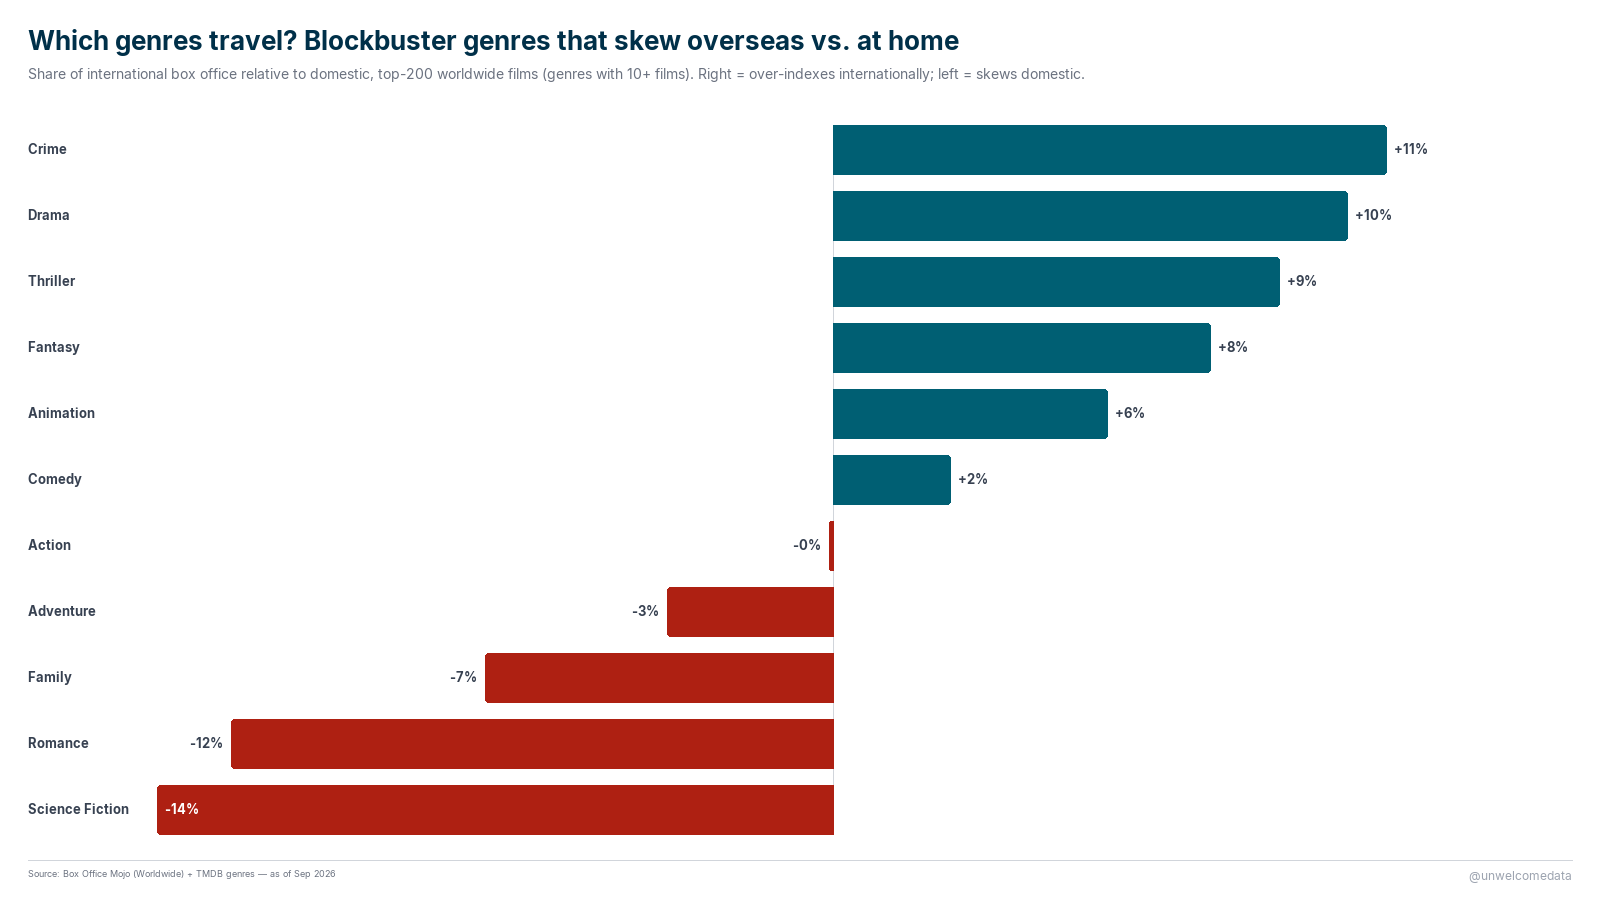
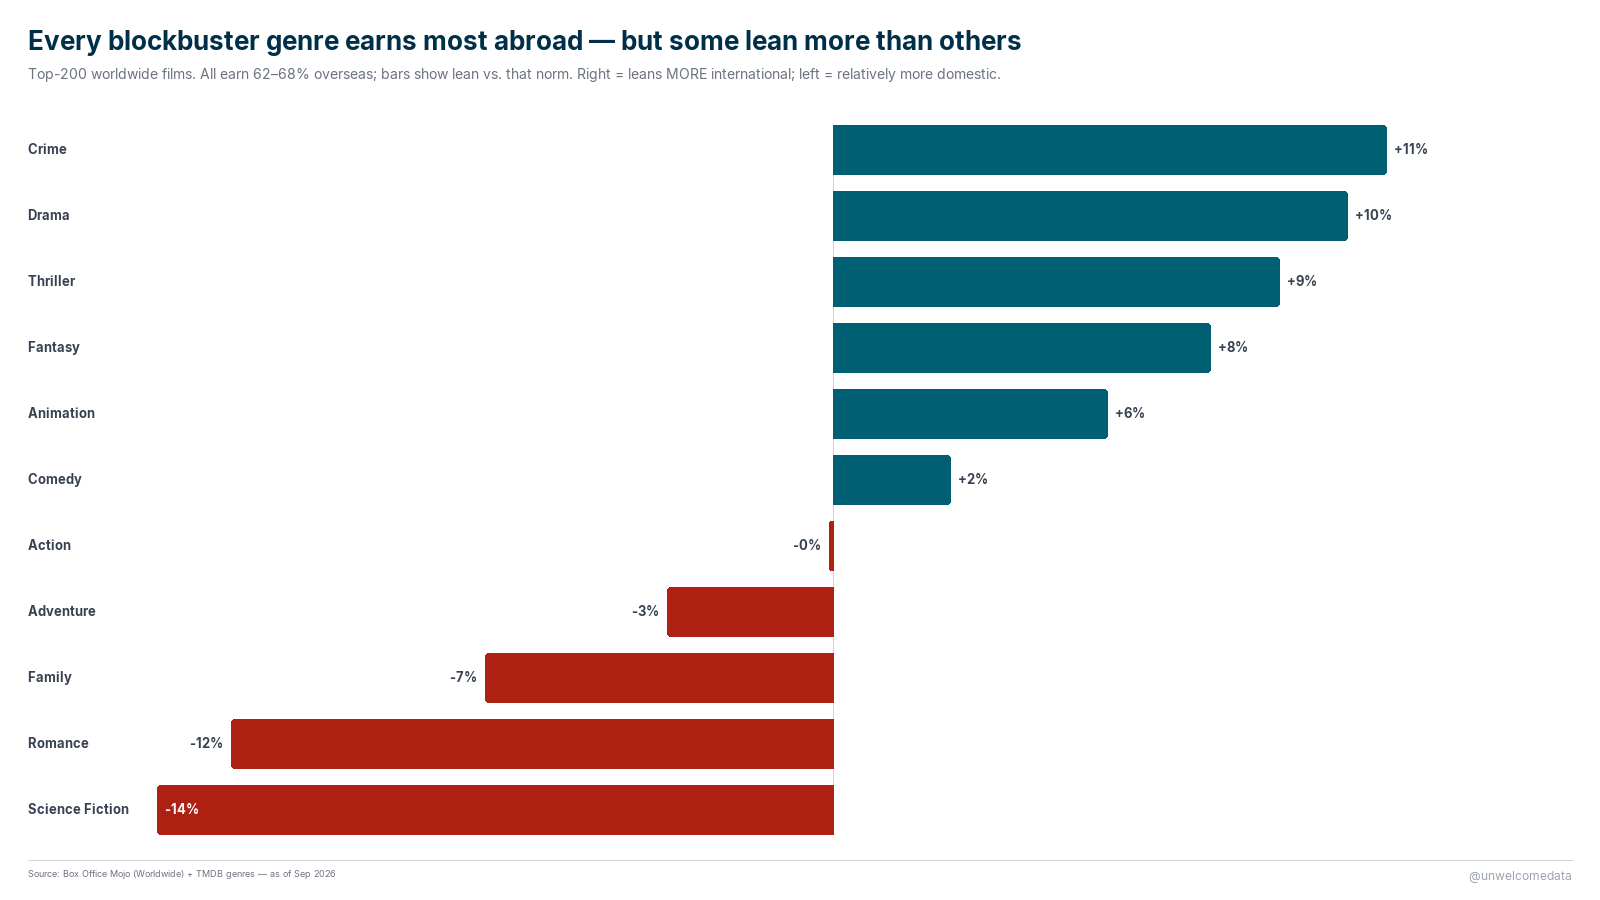
fix: chart polish + notebook con.close() cells
Charts:
- adjusted-vs-nominal subtitle names the gap (a century of ticket-price inflation)
- worldwide dumbbell labels the worldwide total (sort key) so it reads as sorted
- genre chart reframed (Option A): title/subtitle make clear ALL genres earn 62-68%
  abroad; bars show relative lean, so sci-fi's -14% doesn't read as 'doesn't travel'.
  Trimmed subtitle so it no longer clips.

Notebooks:
- 04-viz + 06-viz-social now open the DB read_only and end with a Cleanup con.close()
  cell (04-viz was missing it entirely; 06 had it buried in a chart cell).
- make_charts.py opens read_only with a locked-DB copy fallback.

Changed region(s): [[0.0, 0.0311, 0.6875, 0.0933]]

diff --git a/scripts/_build_notebooks.py b/scripts/_build_notebooks.py
@@ -402,15 +402,16 @@ viz = [
          "WORKSPACE = PROJECT.parent.parent",
          "sys.path.insert(0, str(WORKSPACE / 'shared'))",
          "",
-         "import pandas as pd",
+         "import pandas as pd, duckdb",
          "from src.ingest import load_config",
-         "from src.clean_quality import get_connection",
          "from chart_templates import lollipop, diverging_bars",
          "from viz import PRESETS",
          "from IPython.display import display",
          "",
          "cfg = load_config('config.yaml')",
-         "con = get_connection(cfg)  # left open; the cells below read worldwide + genre tables",
+         "# read-only: this notebook only reads, so it runs even if another notebook",
+         "# kernel has the DuckDB file open (DuckDB is single-writer).",
+         "con = duckdb.connect(cfg['settings']['duckdb_file'], read_only=True)",
          "films = con.execute('SELECT * FROM films_adjusted ORDER BY adjusted_gross DESC LIMIT 15').df()",
          "films['label'] = films['title'] + '  (' + films['release_year'].astype(str) + ')'",
          "img_w, img_h, _ = PRESETS['twitter_landscape']",
@@ -460,9 +461,14 @@ viz = [
          "    FROM bygenre ORDER BY value DESC''').df()",
          "genre['lbl'] = genre['value'].apply(lambda v: f\"{'+' if v>=0 else ''}{v*100:.0f}%\")",
          "display(diverging_bars(genre, category_col='category', value_col='value', label_col='lbl',",
-         "    title='Which genres travel? International vs domestic lean',",
-         "    subtitle='Top-200 worldwide films, genres with 10+ films. Right = over-indexes internationally.',",
+         "    title='All genres earn most abroad; some lean more than others',",
+         "    subtitle='All 62-68% international; bars = lean vs that norm. Left (e.g. sci-fi) = relatively more domestic, driven by US-heavy franchises.',",
          "    pos_color='#005F73', neg_color='#AE2012', img_width=img_w, img_height=img_h))"),
+    md("## Cleanup",
+       "Close the DuckDB connection so the lock is released for other tools (DBCode,",
+       "other notebooks)."),
+    code("con.close()",
+         "print('connection closed')"),
     md("---",
        "**Next:** `06-viz-social.ipynb` builds the publication versions of these three",
        "charts (full titling/source) and saves them to `outputs/social/`."),
@@ -486,14 +492,15 @@ viz_social = [
          "WORKSPACE = PROJECT.parent.parent",
          "sys.path.insert(0, str(WORKSPACE / 'shared'))",
          "",
+         "import duckdb",
          "from src.ingest import load_config",
-         "from src.clean_quality import get_connection",
          "from chart_templates import lollipop, diverging_bars",
          "from viz import PRESETS",
          "from IPython.display import display",
          "",
          "cfg = load_config('config.yaml')",
-         "con = get_connection(cfg)",
+         "# read-only: viz notebooks only read, so they run alongside an open kernel.",
+         "con = duckdb.connect(cfg['settings']['duckdb_file'], read_only=True)",
          "img_w, img_h, _ = PRESETS['twitter_landscape']",
          "out = Path(cfg['paths']['outputs_social']); out.mkdir(parents=True, exist_ok=True)",
          "def money(v):",
@@ -504,8 +511,9 @@ viz_social = [
          "    FROM films_worldwide ORDER BY worldwide_gross DESC LIMIT 15''').df()",
          "ww['label'] = ww['title'] + '  (' + ww['release_year'].astype(str) + ')'",
          "img2 = lollipop(ww, category_col='label', value_col='foreign_gross', value2_col='domestic_gross',",
+         "    label_col='worldwide_gross',  # rows are ranked by worldwide total; label that so it reads as sorted",
          "    value_fmt=money, title='Where the money really comes from: overseas',",
-         "    subtitle='Top 15 films by worldwide gross (nominal $). Teal = international (rest of world), gold = domestic (U.S. & Canada).',",
+         "    subtitle='Top 15 films by worldwide gross (nominal $), highest first. Teal = international (rest of world), gold = domestic (U.S. & Canada); label = worldwide total.',",
          "    source='Box Office Mojo, Top Lifetime Grosses (Worldwide) — as of Sep 2026',",
          "    dot_color='#005F73', dot2_color='#EE9B00',",
          "    value_label='International', value2_label='Domestic (US/Canada)',",
@@ -527,8 +535,8 @@ viz_social = [
          "    FROM bygenre ORDER BY value DESC''').df()",
          "genre['label'] = genre['value'].apply(lambda v: f\"{'+' if v>=0 else ''}{v*100:.0f}%\")",
          "img3 = diverging_bars(genre, category_col='category', value_col='value', label_col='label',",
-         "    title='Which genres travel? Blockbuster genres that skew overseas vs. at home',",
-         "    subtitle='Share of international box office relative to domestic, top-200 worldwide films (10+ films). Right = over-indexes internationally.',",
+         "    title='Every blockbuster genre earns most abroad — but some lean more than others',",
+         "    subtitle='Top-200 worldwide films. All earn 62-68% overseas; bars show lean vs. that norm. Right = leans MORE international; left = relatively more domestic.',",
          "    source='Box Office Mojo (Worldwide) + TMDB genres — as of Sep 2026',",
          "    pos_color='#005F73', neg_color='#AE2012', img_width=img_w, img_height=img_h)",
          "display(img3)",
@@ -541,17 +549,20 @@ viz_social = [
          "dom['label'] = dom['title'] + '  (' + dom['release_year'].astype(str) + ')'",
          "img1 = lollipop(dom, category_col='label', value_col='adjusted_gross', value2_col='nominal_gross',",
          "    value_fmt=money, title='The biggest DOMESTIC films of all time, adjusted for inflation',",
-         "    subtitle='U.S. & Canada only. Teal = adjusted to 2022 $, gold = nominal (release $).',",
+         "    subtitle='U.S. & Canada only. Teal = adjusted to 2022 $, gold = nominal (release $) — the gap is a century of ticket-price inflation.',",
          "    source='Box Office Mojo, Top Lifetime Adjusted Grosses (domestic, adj. to 2022) — as of Sep 2026',",
          "    dot_color='#005F73', dot2_color='#EE9B00',",
          "    value_label='Adjusted (2022 $)', value2_label='Nominal (release $)',",
          "    img_width=img_w, img_height=img_h)",
          "display(img1)",
-         "img1.save(out / '01_domestic_adjusted_vs_nominal.png')",
-         "con.close()"),
+         "img1.save(out / '01_domestic_adjusted_vs_nominal.png')"),
     md("---",
        "Three charts written to `outputs/social/`. Watermark `@unwelcomedata`, brand",
        "palette, `twitter_landscape` preset."),
+    md("## Cleanup",
+       "Close the DuckDB connection so the lock is released for other tools."),
+    code("con.close()",
+         "print('connection closed')"),
 ]
 
 

diff --git a/scripts/make_charts.py b/scripts/make_charts.py
@@ -19,8 +19,9 @@ WORKSPACE = PROJECT.parent.parent
 sys.path.insert(0, str(PROJECT))
 sys.path.insert(0, str(WORKSPACE / "shared"))
 
+import duckdb  # noqa: E402
+
 from src.ingest import load_config  # noqa: E402
-from src.clean_quality import get_connection  # noqa: E402
 from chart_templates import lollipop, diverging_bars  # noqa: E402
 from viz import PRESETS  # noqa: E402
 
@@ -39,7 +40,18 @@ def _display(img):
 
 def main() -> None:
     cfg = load_config(str(PROJECT / "config.yaml"))
-    con = get_connection(cfg)
+    db_file = cfg["settings"]["duckdb_file"]
+    # This script only reads. Try read-only; if a notebook kernel holds a
+    # read-write lock (DuckDB is single-writer), fall back to a throwaway copy so
+    # chart rendering never contends with an open notebook.
+    try:
+        con = duckdb.connect(db_file, read_only=True)
+    except duckdb.IOException:
+        import shutil, tempfile
+        tmp = Path(tempfile.gettempdir()) / "hgf_charts_readcopy.duckdb"
+        shutil.copy(db_file, tmp)
+        print(f"(primary DB locked — reading from copy {tmp})")
+        con = duckdb.connect(str(tmp), read_only=True)
     img_w, img_h, _ = PRESETS["twitter_landscape"]
     out = Path(cfg["paths"]["outputs_social"])
     out.mkdir(parents=True, exist_ok=True)
@@ -54,7 +66,7 @@ def main() -> None:
         dom, category_col="label", value_col="adjusted_gross", value2_col="nominal_gross",
         value_fmt=money_bil,
         title="The biggest DOMESTIC films of all time, adjusted for inflation",
-        subtitle="U.S. & Canada box office only. Teal = adjusted to 2022 $, gold = nominal (release $). Domestic figures — see the worldwide view for the fuller picture.",
+        subtitle="U.S. & Canada only. Teal = adjusted to 2022 $, gold = nominal (release $) — the gap is a century of ticket-price inflation.",
         source="Box Office Mojo, Top Lifetime Adjusted Grosses (domestic, adj. to 2022) — as of Sep 2026",
         dot_color="#005F73", dot2_color="#EE9B00",
         value_label="Adjusted (2022 $)", value2_label="Nominal (release $)",
@@ -71,9 +83,10 @@ def main() -> None:
     ww["label"] = ww["title"] + "  (" + ww["release_year"].astype(str) + ")"
     img2 = lollipop(
         ww, category_col="label", value_col="foreign_gross", value2_col="domestic_gross",
+        label_col="worldwide_gross",  # ranked by worldwide total; label that so it reads as sorted
         value_fmt=money_bil,
         title="Where the money really comes from: overseas",
-        subtitle="Top 15 films by worldwide gross (nominal $). Teal = international (rest of world), gold = domestic (U.S. & Canada).",
+        subtitle="Top 15 films by worldwide gross (nominal $), highest first. Teal = international (rest of world), gold = domestic (U.S. & Canada); label = worldwide total.",
         source="Box Office Mojo, Top Lifetime Grosses (Worldwide) — as of Sep 2026",
         dot_color="#005F73", dot2_color="#EE9B00",
         value_label="International", value2_label="Domestic (US/Canada)",
@@ -105,8 +118,8 @@ def main() -> None:
     genre["label"] = genre["value"].apply(lambda v: f"{'+' if v >= 0 else ''}{v*100:.0f}%")
     img3 = diverging_bars(
         genre, category_col="category", value_col="value", label_col="label",
-        title="Which genres travel? Blockbuster genres that skew overseas vs. at home",
-        subtitle="Share of international box office relative to domestic, top-200 worldwide films (genres with 10+ films). Right = over-indexes internationally; left = skews domestic.",
+        title="Every blockbuster genre earns most abroad — but some lean more than others",
+        subtitle="Top-200 worldwide films. All earn 62–68% overseas; bars show lean vs. that norm. Right = leans MORE international; left = relatively more domestic.",
         source="Box Office Mojo (Worldwide) + TMDB genres — as of Sep 2026",
         pos_color="#005F73", neg_color="#AE2012",
         img_width=img_w, img_height=img_h,
